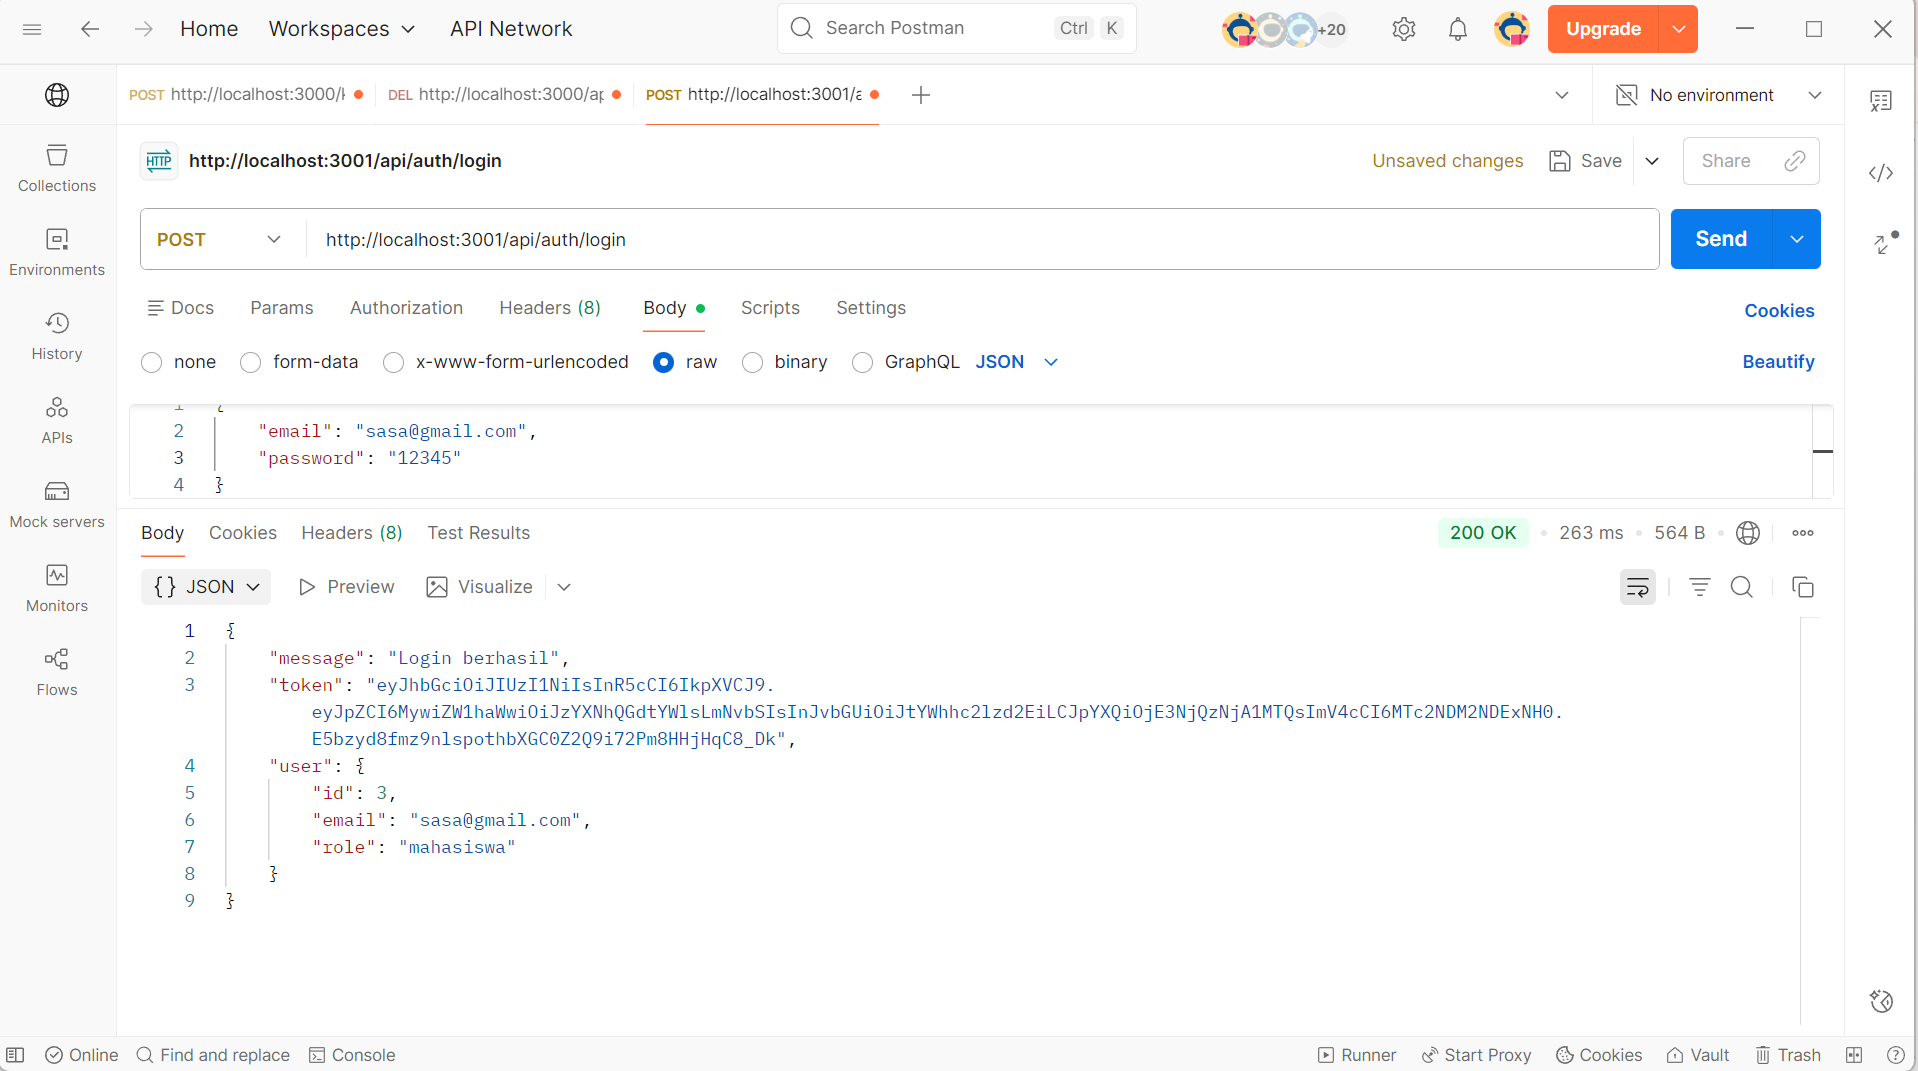
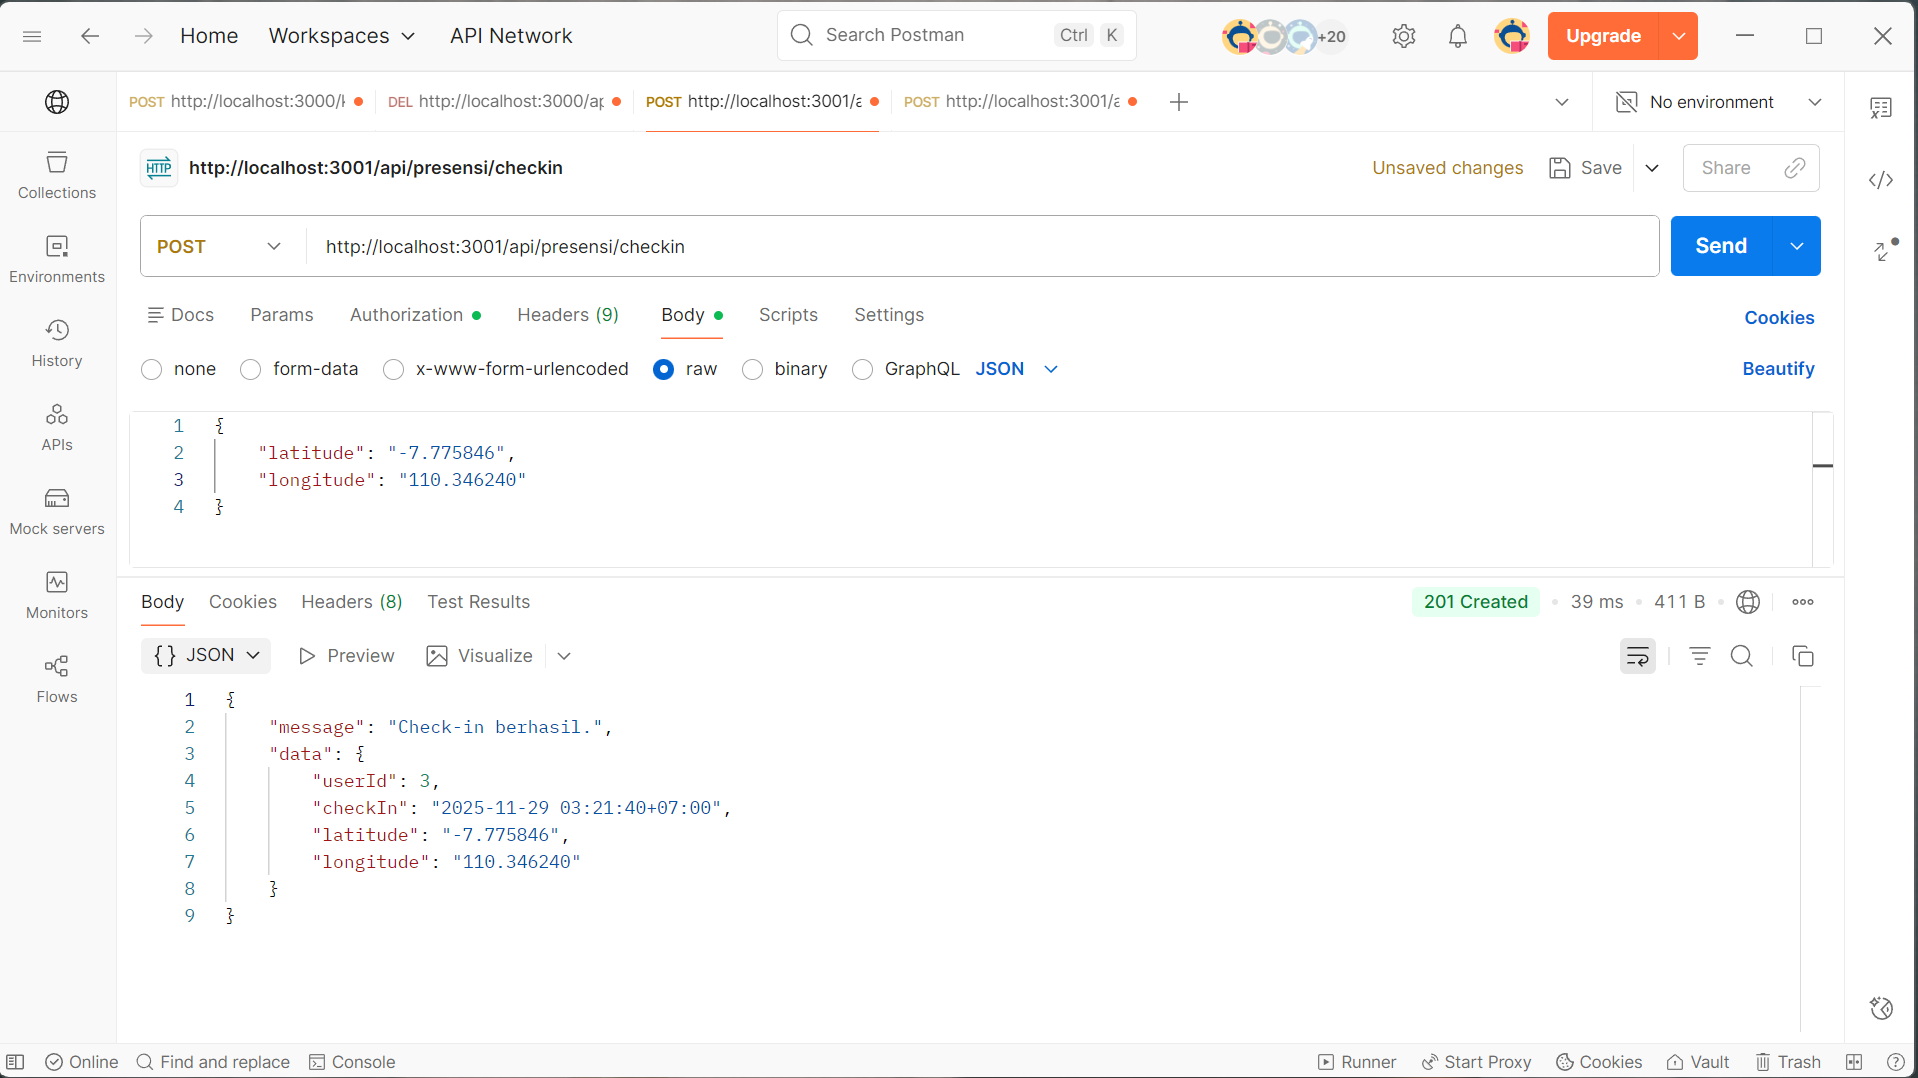
tugas 9.md

diff --git a/tugas/Tugas9.md b/tugas/Tugas9.md
@@ -1,0 +1,34 @@
+# 🧾 Tugas 7 — Integrasi Final Full-Stack
+
+Nama: **Dara Darmawan**  
+NIM: **20230140140**  
+---
+
+## 1⃣  Endpoint Login
+ss: ![login-endpoint](/ss/postman-login-meet9.png)
+
+---
+
+## 2⃣ Endpoint Checkin
+ss: ![checkin-endpoint](/ss/postman-checkin-meet9.png)
+
+---
+
+## 3⃣ Checkin Page
+ss: ![checkin](/ss/checkin-meet9.png)
+
+---
+
+## 4⃣ Checkout Page
+ss: ![checkout](/ss/checkout-meet9.png)
+
+---
+
+## 5⃣ Report Page (Admin)
+ss: ![report](/ss/report-meet9.png)
+
+---
+
+## 6⃣ Tabel Presensi
+ss: ![presensi](/ss/database-meet9.png)
+
